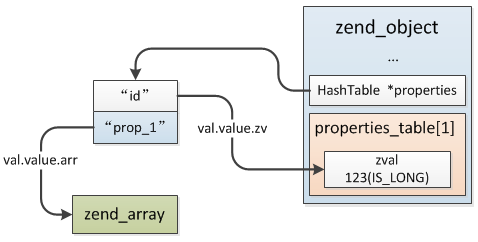
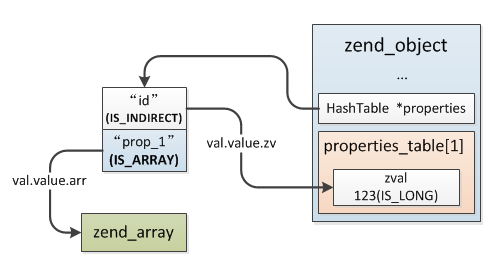
update

Changed region(s): [[0.0, 0.0, 0.9958, 0.9835], [0.8201, 0.2314, 0.8494, 0.2603]]

diff --git a/5/gc.md b/5/gc.md
@@ -162,7 +162,7 @@ ZEND_API void ZEND_FASTCALL gc_possible_root(zend_refcounted *ref)
         ...
 
         //启动垃圾回收过程
-        gc_collect_cycles();
+        gc_collect_cycles(); //即：zend_gc_collect_cycles()
         ...
     } 
 
@@ -180,8 +180,65 @@ ZEND_API void ZEND_FASTCALL gc_possible_root(zend_refcounted *ref)
     GC_G(roots).next = newRoot;
 }
 ```
-同一个zend_value只会插入一次，第2次插入时如果发现其gc_info不是GC_BLACK则直接跳过。另外像上面示例1的情况，插入后如果后面发现其refcount减为0了则表明它可以直接被回收掉，这时将需要从roots缓存区中删除，删除的操作通过`GC_REMOVE_FROM_BUFFER()`宏操作：
+同一个zend_value只会插入一次，再次插入时如果发现其gc_info不是GC_BLACK则直接跳过。另外像上面示例1的情况，插入后如果后面发现其refcount减为0了则表明它可以直接被回收掉，这时需要把这个节点从roots链表中删除，删除的操作通过`GC_REMOVE_FROM_BUFFER()`宏操作：
 ```c
+#define GC_REMOVE_FROM_BUFFER(p) do { \
+    zend_refcounted *_p = (zend_refcounted*)(p); \
+        if (GC_ADDRESS(GC_INFO(_p))) { \
+            gc_remove_from_buffer(_p); \
+        } \
+} while (0)
 
+ZEND_API void ZEND_FASTCALL gc_remove_from_buffer(zend_refcounted *ref)
+{
+    gc_root_buffer *root;
+
+    //GC_ADDRESS就是获取节点在缓存区中的位置，因为删除时输入是zend_refcounted
+    //而缓存链表的节点类型是gc_root_buffer
+    root = GC_G(buf) + GC_ADDRESS(GC_INFO(ref));
+    if (GC_REF_GET_COLOR(ref) != GC_BLACK) {
+        GC_TRACE_SET_COLOR(ref, GC_PURPLE);
+    }
+    GC_INFO(ref) = 0;
+    GC_REMOVE_FROM_ROOTS(root); //双向链表的删除操作
+    ...
+}
 ```
+插入时如果发现垃圾缓存链表已经满了，则会启动垃圾回收过程：`zend_gc_collect_cycles()`，这个过程会对之前插入缓存区的变量进行判断是否是循环引用导致的真正的垃圾，如果是垃圾则会进行回收，回收的过程前面已经介绍过:
+```c
+ZEND_API int zend_gc_collect_cycles(void)
+{
+    ...
+    //(1)遍历roots链表，对当前节点value的所有成员(如数组元素、成员属性)进行深度优先遍历把成员refcount减1
+    gc_mark_roots();
+
+    //(2)再次遍历roots链表，检查各节点当前refcount是否为0，是的话标为白色，表示是垃圾，不是的话需要对还原(1)，把refcount再加回去
+    gc_scan_roots();
+
+    //(3)将roots链表中的非白色节点删除，之后roots链表中全部是真正的垃圾，将垃圾链表转到to_free等待释放
+    count = gc_collect_roots(&gc_flags, &additional_buffer);
+    ...
+    
+    //(4)释放垃圾
+    current = to_free.next;
+    while (current != &to_free) {
+        p = current->ref;
+        GC_G(next_to_free) = current->next;
+        if ((GC_TYPE(p) & GC_TYPE_MASK) == IS_OBJECT) {
+            //调用free_obj释放对象
+            obj->handlers->free_obj(obj);
+            ...
+        } else if ((GC_TYPE(p) & GC_TYPE_MASK) == IS_ARRAY) {
+            //释放数组
+            zend_array *arr = (zend_array*)p;
+
+            GC_TYPE(arr) = IS_NULL;
+            zend_hash_destroy(arr);
+        }
+        current = GC_G(next_to_free);
+    }
+    ...
+}
+```
+各步骤具体的过程不再详细介绍，
 

diff --git a/3/zend_prop.md b/3/zend_prop.md
@@ -69,7 +69,7 @@ found:
     }
 }
 ```
-上面就是成员属性的修改过程，普通属性根据其offset再从对象中取出属性值进行修改，而首次创建动态属性将通过`rebuild_object_properties()`初始化`zend_object->properties`哈希表，后面再创建动态属性直接插入此哈希表，`rebuild_object_properties()`过程并不仅仅是创建一个HashTable，还会将普通成员属性值插入到这个数组中，这里的插入并不是增加原zend_value的refcount，而是创建了一个IS_INDIRECT类型的zval，指向原属性值zval，具体结构如下图。
+上面就是成员属性的修改过程，普通属性根据其offset再从对象中取出属性值进行修改，而首次创建动态属性将通过`rebuild_object_properties()`初始化`zend_object->properties`哈希表，后面再创建动态属性直接插入此哈希表，`rebuild_object_properties()`过程并不仅仅是创建一个HashTable，还会将普通成员属性值插入到这个数组中，与动态属性不同，这里的插入并不是增加原zend_value的refcount，而是创建了一个IS_INDIRECT类型的zval，指向原属性值zval，具体结构如下图。
 
 ![](../img/zend_dy_prop.png)
 
